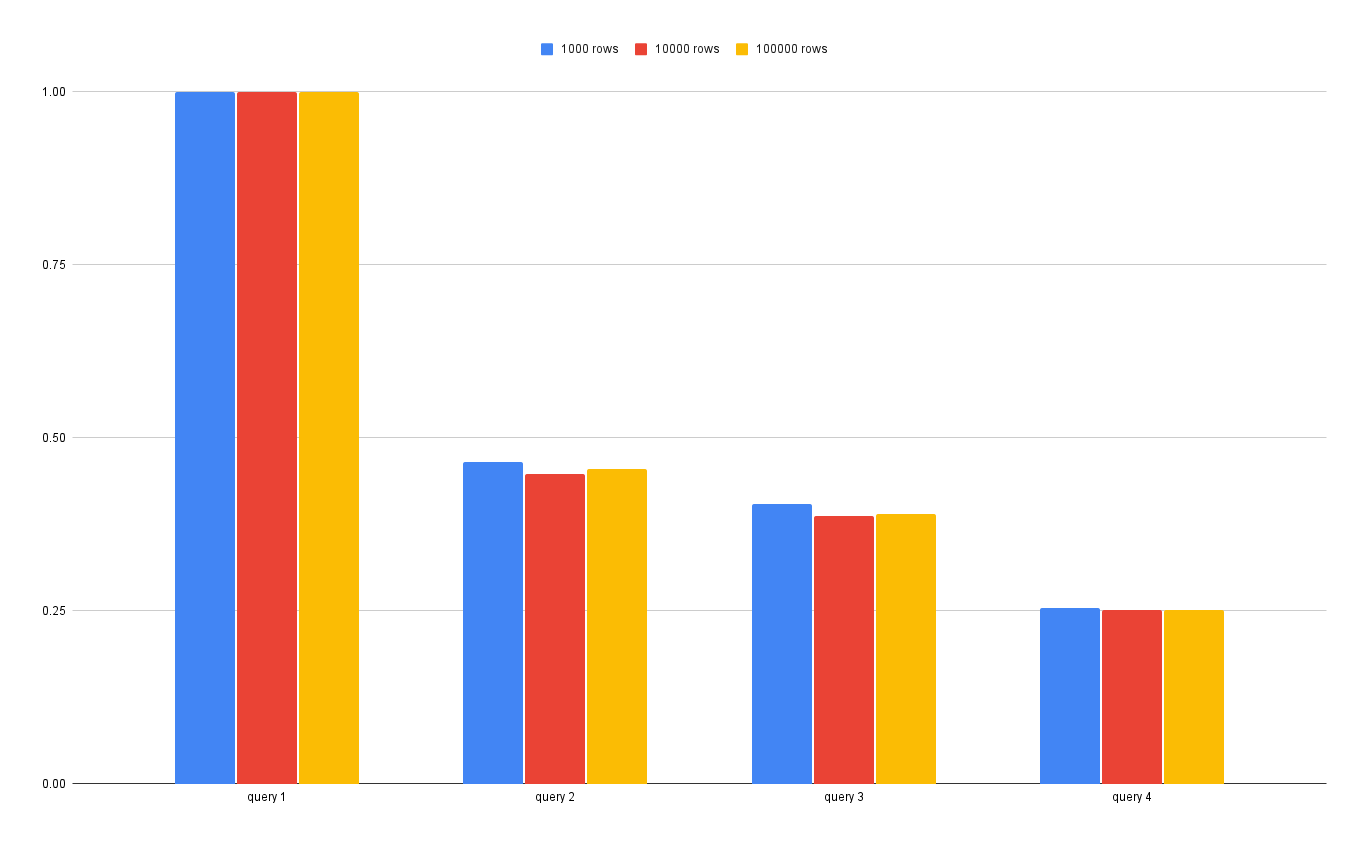
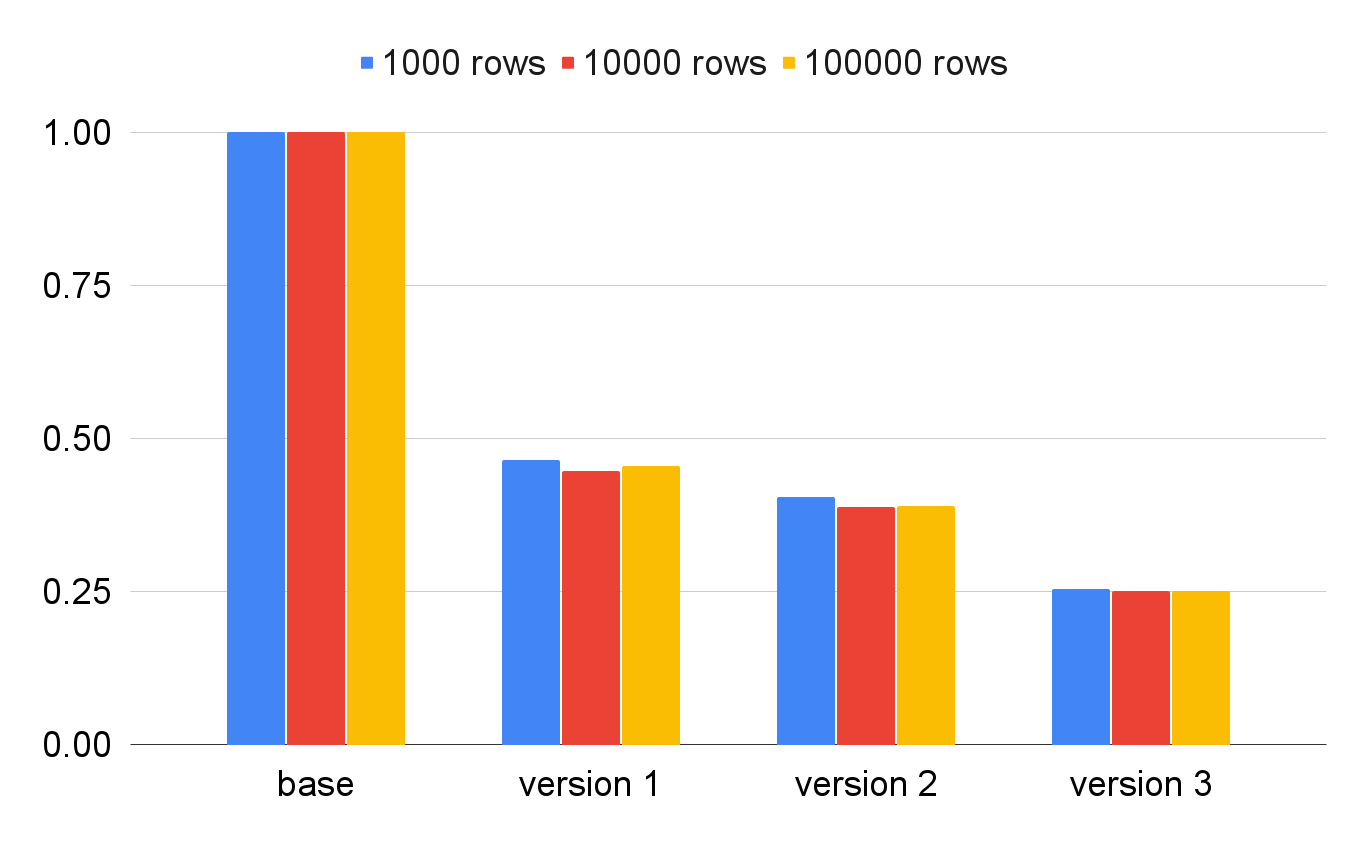
fixes

diff --git a/content/posts/2024-031-fun-case-of-fastening-data-retrieval-with-psycopg/optimizations.py b/content/posts/2024-031-fun-case-of-fastening-data-retrieval-with-psycopg/optimizations.py
@@ -7,8 +7,8 @@ N = 1000
 M = 100
 
 
-# --8<-- [start:query_1]
-def query_1(conn, n):
+# --8<-- [start:version_1]
+def version_1(conn, n):
     data = {}
 
     with conn.cursor() as cur:
@@ -25,11 +25,11 @@ def query_1(conn, n):
             data[entry_id].add(row[2])
 
         return data
-# --8<-- [end:query_1]
+# --8<-- [end:version_1]
 
 
-# --8<-- [start:query_2]
-def query_2(conn, n):
+# --8<-- [start:version_2]
+def version_2(conn, n):
     data = {}
 
     with conn.cursor() as cur:
@@ -46,11 +46,11 @@ def query_2(conn, n):
             data[entry_id].add(row[1])
 
         return data
-# --8<-- [end:query_2]
+# --8<-- [end:version_2]
 
 
-# --8<-- [start:query_3]
-def query_3(conn, n):
+# --8<-- [start:version_3]
+def version_3(conn, n):
     data = {}
 
     entry_ids_mapping = {}
@@ -76,11 +76,11 @@ def query_3(conn, n):
             data[entry_id].add(row[1])
 
         return data
-# --8<-- [end:query_3]
+# --8<-- [end:version_3]
 
 
-# --8<-- [start:query_4]
-def query_4(conn, n):
+# --8<-- [start:version_4]
+def version_4(conn, n):
     data = {}
 
     entry_ids_mapping = {}
@@ -107,7 +107,7 @@ def query_4(conn, n):
             data[entry_id].add(int(raw_tag_id))
 
         return data
-# --8<-- [end:query_4]
+# --8<-- [end:version_4]
 
 
 def run():
@@ -118,29 +118,29 @@ def run():
         # Also, warm up the database
         ##########################################################################
 
-        data_1 = query_1(conn, N)
-        data_2 = query_2(conn, N)
-        data_3 = query_3(conn, N)
-        data_4 = query_4(conn, N)
+        data_1 = version_1(conn, N)
+        data_2 = version_2(conn, N)
+        data_3 = version_3(conn, N)
+        data_4 = version_4(conn, N)
 
         print(data_1 == data_2 == data_3 == data_4)
 
         ##########################################################################
-        # Measure the performance of each query
+        # Measure the performance of each version
         ##########################################################################
 
-        time_1 = timeit.timeit(lambda: query_1(conn, N), number=M)
-        time_2 = timeit.timeit(lambda: query_2(conn, N), number=M)
-        time_3 = timeit.timeit(lambda: query_3(conn, N), number=M)
-        time_4 = timeit.timeit(lambda: query_4(conn, N), number=M)
+        time_1 = timeit.timeit(lambda: version_1(conn, N), number=M)
+        time_2 = timeit.timeit(lambda: version_2(conn, N), number=M)
+        time_3 = timeit.timeit(lambda: version_3(conn, N), number=M)
+        time_4 = timeit.timeit(lambda: version_4(conn, N), number=M)
 
         print(f"Number of records: {N}")
         print(f"Number of measurements: {M}")
 
-        print(f"Query 1: {time_1:.2f} seconds")
-        print(f"Query 2: {time_2:.2f} seconds")
-        print(f"Query 3: {time_3:.2f} seconds")
-        print(f"Query 4: {time_4:.2f} seconds")
+        print(f"Version 1: {time_1:.2f} seconds")
+        print(f"Version 2: {time_2:.2f} seconds")
+        print(f"Version 3: {time_3:.2f} seconds")
+        print(f"Version 4: {time_4:.2f} seconds")
 
 
 run()

diff --git a/content/posts/2024-031-fun-case-of-fastening-data-retrieval-with-psycopg/ru.md b/content/posts/2024-031-fun-case-of-fastening-data-retrieval-with-psycopg/ru.md
@@ -1,5 +1,5 @@
 ---
-title = ""
+title = "Интересный случай оптимизации извлечения данных из PostgreSQL с помощью Psycopg"
 tags = ["practice", "development", "python", "backend", "feeds-fun", "interesting"]
 published_at = "2024-11-22T12:00:00+00:00"
 seo_description = "TODO"
@@ -95,7 +95,7 @@ Referenced by:
 Базовая версия функции:
 
 ```
---8<-- "./optimizations.py:query_1"
+--8<-- "./optimizations.py:version_1"
 ```
 
 ## Оптимизация 1
@@ -107,7 +107,7 @@ Referenced by:
 И заменил звёздочку на конкретные колонки:
 
 ```
---8<-- "./optimizations.py:query_2"
+--8<-- "./optimizations.py:version_2"
 ```
 
 ## Оптимизация 2
@@ -119,7 +119,7 @@ Referenced by:
 Что если запрашивать `entry_id` как строку, а парсить уже на стороне Python только один раз?
 
 ```
---8<-- "./optimizations.py:query_3"
+--8<-- "./optimizations.py:version_3"
 ```
 
 ## Оптимизация 3
@@ -137,9 +137,9 @@ Referenced by:
 Сказано — сделано:
 
 ```
---8<-- "./optimizations.py:query_4"
+--8<-- "./optimizations.py:version_4"
 ```
 
 Результаты финальной версии кода в 4 раза быстрее базовой версии.
 
-На всякий случай проговорю словами: **склеить колонки результата на стороне PostgreSQL и разобрать логикой на стороне Python может быть быстрее, чем запрашивать каждую колонку отдельно**. По крайней мере используя psycopg. Но я люблю эту библиотеку, поэтому мне кажется, что у альтернатив будет хуже.
+На всякий случай проговорю словами: **склеить колонки результата на стороне PostgreSQL и разобрать логикой на стороне Python может быть быстрее, чем запрашивать колонки как отдельные значения**. По крайней мере используя psycopg. Но я люблю эту библиотеку, поэтому думаю, что у альтернатив ситуация будет хуже.
